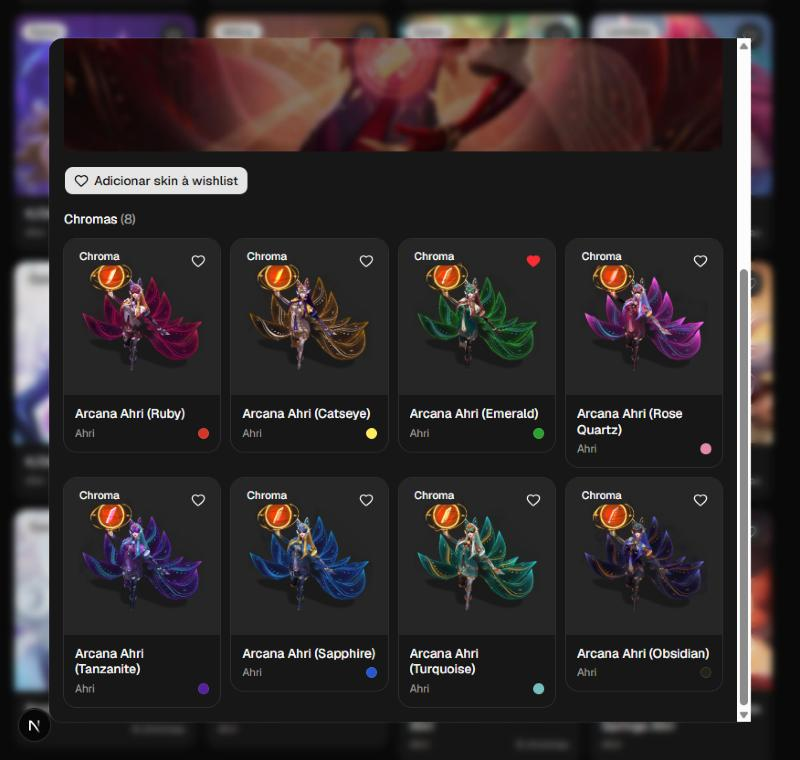
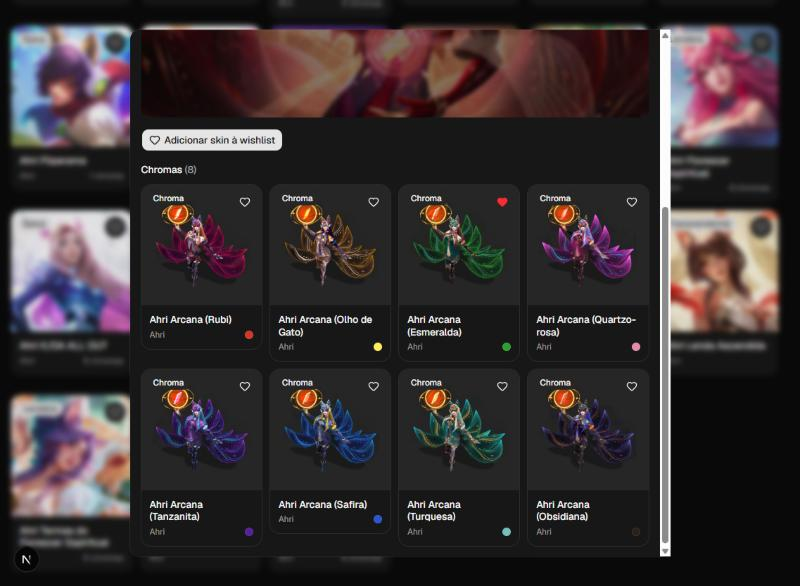
docs: README e prints com os nomes em PT-BR

diff --git a/README.md b/README.md
@@ -2,12 +2,12 @@
 
 Wishlist de skins e chromas do League of Legends. Busque qualquer skin ou chroma específico e salve na sua lista para não esquecer o que você quer comprar.
 
-<img src="docs/tela.jpg" alt="Skins do LoL Wishlist separadas por campeão" width="400"> <img src="docs/chromas.jpg" alt="Modal com os chromas da Arcana Ahri" width="400">
+<img src="docs/tela.jpg" alt="Skins do LoL Wishlist separadas por campeão" width="400"> <img src="docs/chromas.jpg" alt="Modal com os chromas da Ahri Arcana" width="400">
 
 ## Uso
 
 1. Na aba **Skins**, as skins aparecem separadas por campeão, em ordem alfabética.
-2. Para filtrar, digite campeão, skin, chroma ou coleção, em qualquer ordem (ex.: `ahri arcana`, `kaisa emerald`). Acentos e apóstrofos não importam.
+2. Para filtrar, digite campeão, skin, chroma ou coleção, em qualquer ordem (ex.: `ahri arcana`, `kaisa esmeralda`). Acentos e apóstrofos não importam, e os nomes em inglês também funcionam (`arcade ahri` encontra Ahri Fliperama).
 3. Clique numa skin para ver a splash art e todos os chromas dela.
 4. Toque no ♥ de uma skin ou de um chroma para adicionar ou remover da wishlist.
 5. Veja tudo na aba **Minha wishlist**, também agrupado por campeão.
@@ -17,6 +17,7 @@ Por enquanto a wishlist fica salva no navegador (`localStorage`). Login e sincro
 ## Como funciona
 
 - A API oficial da Riot não tem dados de skins nem chromas. Os dados e as imagens vêm do [CommunityDragon](https://www.communitydragon.org/), que espelha os arquivos do client do LoL.
+- Os nomes vêm em português do Brasil (pasta `pt_br` do CommunityDragon). Os nomes em inglês são guardados só para a busca.
 - A rota `GET /api/skins` junta `skins.json`, `champion-summary.json` e `skinlines.json` num formato enxuto. O resultado é gerado no build e atualizado no máximo uma vez por dia (`use cache` + `cacheLife("days")`).
 - A busca roda no navegador, sobre cerca de 2 mil skins de 173 campeões (com os nomes dos chromas incluídos).
 
